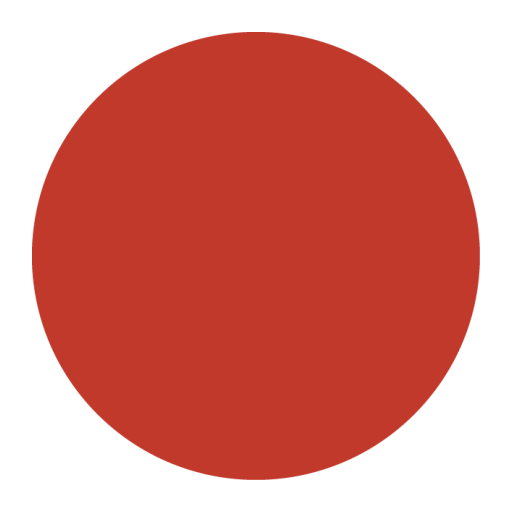
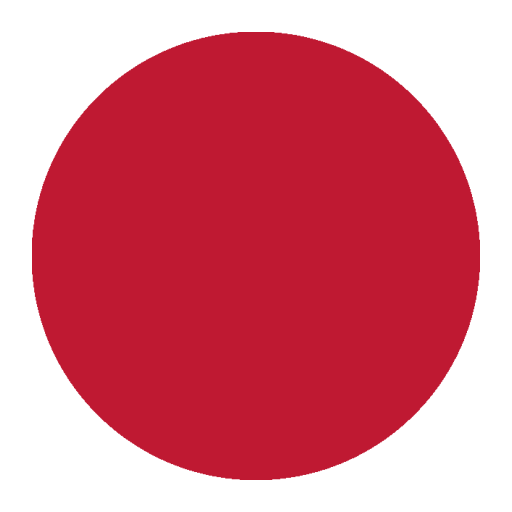
Transparencia Digital: Colores actulizados Nuevo estado ingresado Mostrar respuesta a solicitudes de acceso en tercera lista en MisSolicitudes

diff --git a/TransparenciaDigital/app/src/main/java/transparencia/itai/com/transparenciadigital/AsyncConsulta.java b/TransparenciaDigital/app/src/main/java/transparencia/itai/com/transparenciadigital/AsyncConsulta.java
@@ -45,6 +45,7 @@ import static transparencia.itai.com.transparenciadigital.MisSolicitudes.Actuali
 import static transparencia.itai.com.transparenciadigital.MisSolicitudes.lista2;
 import static transparencia.itai.com.transparenciadigital.MisSolicitudes.lv1;
 import static transparencia.itai.com.transparenciadigital.MisSolicitudes.lv2;
+import static transparencia.itai.com.transparenciadigital.MisSolicitudes.lv3;
 import static transparencia.itai.com.transparenciadigital.MisSolicitudes.opcion;
 import static transparencia.itai.com.transparenciadigital.MisSolicitudes.solicitudes;
 import static transparencia.itai.com.transparenciadigital.Sesion.LimpiarCampos;
@@ -158,6 +159,9 @@ public class AsyncConsulta extends AsyncTask<String, Void, String> {
                     case "listarSolicitudSujetos":
                         SolicitudesSujeto(result);
                         break;
+                    case "listarRespuestaSolicitud":
+                        ListarRespuestaSolicitud(result);
+                        break;
 
                 }
             } catch (JSONException e) {
@@ -172,6 +176,8 @@ public class AsyncConsulta extends AsyncTask<String, Void, String> {
         }
         progressDialog.dismiss();
     }
+
+
 
     private void NuevaSolicitud(String result) {
         if(result.equals("true"))
@@ -325,7 +331,7 @@ public class AsyncConsulta extends AsyncTask<String, Void, String> {
                 while (i < json.length()) {
                     {
                         JSONObject j = json.getJSONObject(i);
-                        if(j.getInt("estado")==3)
+                        if(j.getInt("estado")==4)
                         solicitudes.add(new SolicitudItem(0, j.getInt("idAcceso"), j.getString("nombreSujeto"), j.getString("fecha").split(" ")[0], j.getInt("estado")));
                     }
                     i++;
@@ -349,6 +355,14 @@ public class AsyncConsulta extends AsyncTask<String, Void, String> {
                         lista2.add("Fecha: " + js.getString("fecha").split(" ")[0]);
                         lista2.add("Sujeto Obligado: " + js.getString("nombreSujeto"));
                         lista2.add("Descripción: " + js.getString("descripcion"));
+
+                        ////////////////////////
+                        postDataParams = new JSONObject();
+                        postDataParams.put("token", "12345678");
+                        postDataParams.put("funcion", "listarRespuestaSolicitud");
+                        postDataParams.put("idAcceso", js.getString("idAcceso"));
+                        new AsyncConsulta().execute();
+                        ///////////////////////
                         break;
                     case 1:
                         lista2.add("Recurso de Revisión");
@@ -369,6 +383,8 @@ public class AsyncConsulta extends AsyncTask<String, Void, String> {
                 }
                 ArrayAdapter<String> arrayAdapter = new ArrayAdapter<String>(c, android.R.layout.simple_list_item_1, lista2);
                 lv2.setAdapter(arrayAdapter);
+
+
             }
             else if(pantalla==5)
             {
@@ -384,6 +400,23 @@ public class AsyncConsulta extends AsyncTask<String, Void, String> {
         } catch (Exception e) {
             Toast.makeText(c, e.getMessage(), Toast.LENGTH_SHORT).show();
         }
+    }
+
+    private void ListarRespuestaSolicitud(String result) {
+        try{
+            JSONObject js = new JSONObject(result);
+            if(!js.getString("descripcion").equals("")) {
+                List<String> l = new ArrayList<String>();
+                l.add("Respuesta: " + js.getString("descripcion"));
+                ArrayAdapter<String> arrayAdapter = new ArrayAdapter<>(c, android.R.layout.simple_list_item_1, l);
+                lv3.setAdapter(arrayAdapter);
+            }
+        }
+        catch (Exception ex)
+        {
+
+        }
+
     }
 
     private void Acceso(String result) {

diff --git a/TransparenciaDigital/app/src/main/java/transparencia/itai/com/transparenciadigital/MisSolicitudes.java b/TransparenciaDigital/app/src/main/java/transparencia/itai/com/transparenciadigital/MisSolicitudes.java
@@ -121,6 +121,8 @@ public class MisSolicitudes extends Fragment {
     static ListView lv1;
     static ListView lv2;
     static ListView lv3;
+    static List<String> lista1 = new ArrayList<>();
+    static List<String> lista2 = new ArrayList<>();
     static List<SolicitudItem> solicitudes= new ArrayList<>();
     FloatingActionButton btnVolver;
     LinearLayout layoutMisSolicitudes;
@@ -147,29 +149,23 @@ public class MisSolicitudes extends Fragment {
         lv3.setVisibility(View.GONE);
         lv3.setItemsCanFocus(false);
         btnVolver.setVisibility(View.GONE);
-        
-
-
-
         Toques();
         return view;
     }
     static int indice=0;
     private void Toques() {
-        //ArrayAdapter<String> arrayAdapter = new ArrayAdapter<String>(c,android.R.layout.simple_list_item_1,lista1);
-        //lv1.setAdapter(arrayAdapter);
-
         lv1.setOnItemClickListener(new AdapterView.OnItemClickListener() {
             @Override
             public void onItemClick(AdapterView<?> parent, View view, int position, long id) {
                 try {
                     lv1.setVisibility(View.GONE);
                     lv2.setVisibility(View.VISIBLE);
+                    lv3.setVisibility(View.VISIBLE);
                     btnVolver.show();
                     spinOpciones.setVisibility(View.GONE);
-                    ////////////
-                    //Hacer solicitud de detalles de solicitud
-                    //////////////////
+                    ////////////////////////////////////////////
+                    //Hacer solicitud de detalles de solicitud//
+                    ////////////////////////////////////////////
                     postDataParams = new JSONObject();
                     postDataParams.put("token", "12345678");
                     postDataParams.put("funcion", "datosSolicitud");
@@ -189,17 +185,6 @@ public class MisSolicitudes extends Fragment {
                     }
                     postDataParams.put("id", solicitudes.get(position).id);
                     new AsyncConsulta().execute();
-                    //////////////////
-                    /*
-                    lista2.add(String.valueOf(solicitudes.get(position).tipo));
-                    lista2.add(String.valueOf(solicitudes.get(position).id));
-                    lista2.add(solicitudes.get(position).sujetoObligado);
-                    lista2.add(solicitudes.get(position).fecha);
-                    lista2.add(String.valueOf(solicitudes.get(position).estado));
-                    ArrayAdapter<String> arrayAdapter = new ArrayAdapter<String>(c, android.R.layout.simple_list_item_1, lista2);
-                    lv2.setAdapter(arrayAdapter);
-                    */
-                    //////////////
                 }
                 catch (Exception e)
                 {
@@ -244,6 +229,7 @@ public class MisSolicitudes extends Fragment {
             public void onClick(View v) {
                 lv1.setVisibility(View.VISIBLE);
                 lv2.setVisibility(View.GONE);
+                lv3.setVisibility(View.GONE);
                 btnVolver.hide();
                 spinOpciones.setVisibility(View.VISIBLE);
 

diff --git a/TransparenciaDigital/app/src/main/java/transparencia/itai/com/transparenciadigital/AdaptadorLista.java b/TransparenciaDigital/app/src/main/java/transparencia/itai/com/transparenciadigital/AdaptadorLista.java
@@ -66,19 +66,21 @@ public class AdaptadorLista extends BaseAdapter {
 
                     switch (s.estado) {
                         case 0:
-                            imgSemaforo.setImageResource(R.mipmap.ic_red);
+                            imgSemaforo.setImageResource(R.mipmap.ic_green);
                             break;
                         case 1:
                             imgSemaforo.setImageResource(R.mipmap.ic_yellow);
                             break;
                         case 2:
-                            imgSemaforo.setImageResource(R.mipmap.ic_green);
+                            imgSemaforo.setImageResource(R.mipmap.ic_brown);
                             break;
                         case 3:
+                            imgSemaforo.setImageResource(R.mipmap.ic_red);
+                            break;
+                        case 4:
                             imgSemaforo.setImageResource(R.mipmap.ic_blue);
                             break;
                     }
-                    //Hacer la petición de las solicitudes de este tipo para ese usuario
                 }
                 else {
 
